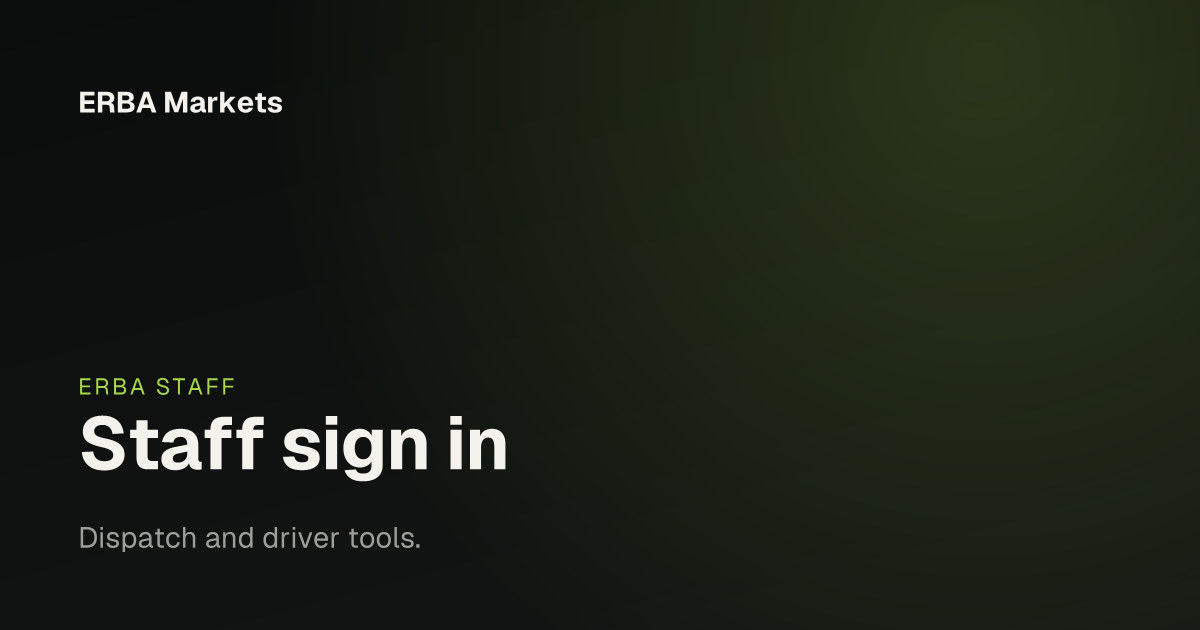
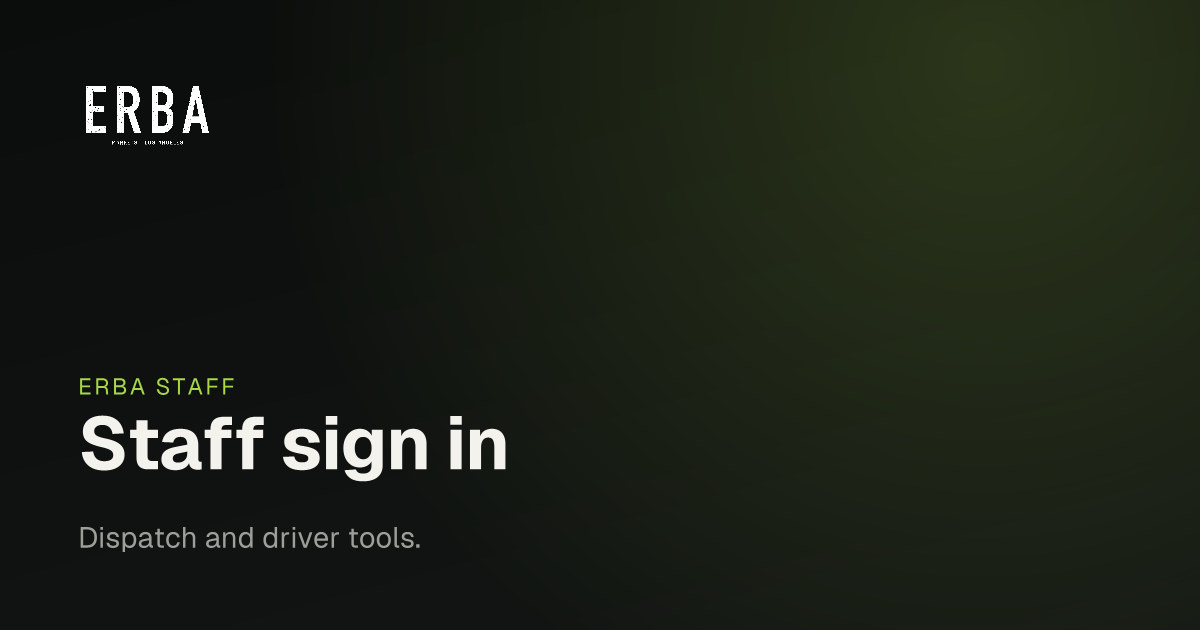
feat(og): put the ERBA lockup on the link preview cards
The cards carried the brand set in type because the row reserved a square slot
for the mark: a 2:1 lockup either came out at half the row's height or, drawn
at its own proportions, ran over the wordmark beside it.

ts-images 0.2.8 reserves the mark's real width, lets a mark stand alone
without brand text, and takes the room that text would have used when it does.
stacks 0.70.318 forwards the aspect and honours markPlate:false, which matters
here because the artwork is white and a default white plate behind it would
hide it.

The card subtitle follows the site copy: dispensaries, not rooms.

Changed region(s): [[0.0617, 0.1206, 0.2467, 0.2111]]

diff --git a/config/images.ts b/config/images.ts
@@ -48,7 +48,7 @@ export default {
    * It is white artwork, which is right here: every card is drawn on the dark
    * room background.
    */
-  brand: '',
+  brand: 'ERBA Markets',
 
   social: {
     enabled: true,
@@ -67,7 +67,18 @@ export default {
      * than replacing it. Putting the logo on the card properly needs the card
      * layout to know the mark's width, which is a change in ts-images itself.
      */
-    brand: 'ERBA Markets',
+    /*
+     * The real lockup carries the card, in place of the brand set in type.
+     * The row reserves the mark's true width (ts-images 0.2.8), so the 2:1
+     * wordmark is neither shrunk into a square nor run over the text beside
+     * it, and standing alone it takes the room that text would have used.
+     *
+     * No plate: the artwork is white and every card is drawn on the dark room
+     * background, so a white plate behind it would hide it.
+     */
+    brand: '',
+    mark: 'public/images/erba-logo.png',
+    markPlate: false,
     color: '#f3f2ed',
     mutedColor: '#9ba09a',
 
@@ -76,7 +87,7 @@ export default {
         path: '/',
         title: 'The premier cannabis destination in Los Angeles',
         eyebrow: 'West Los Angeles',
-        subtitle: 'Two rooms, free delivery over $30, and curbside pickup.',
+        subtitle: 'Two West LA dispensaries, free delivery over $30, and curbside pickup.',
       },
       {
         path: '/menu',
